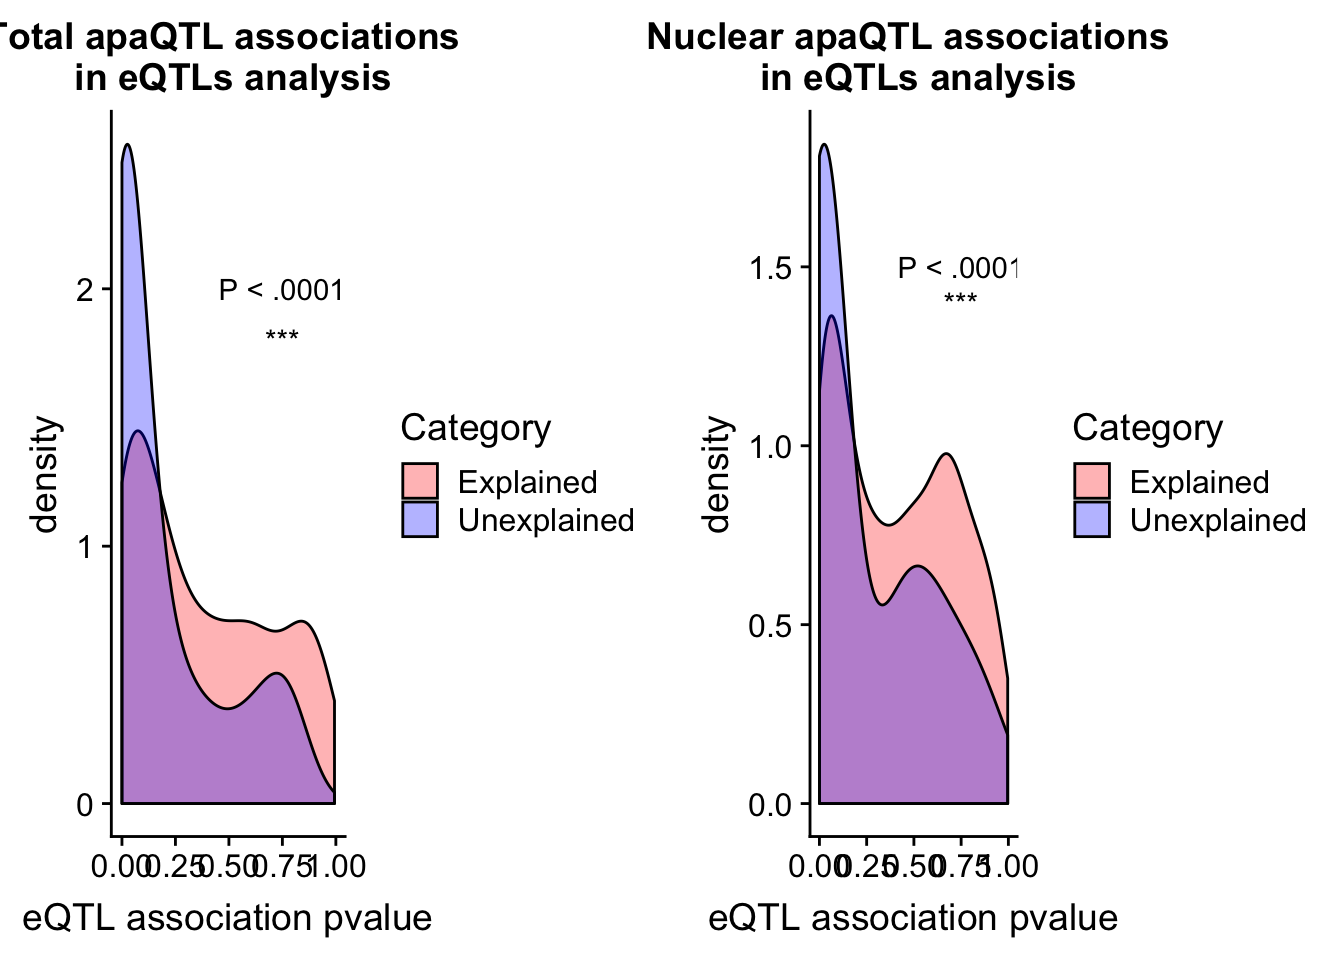
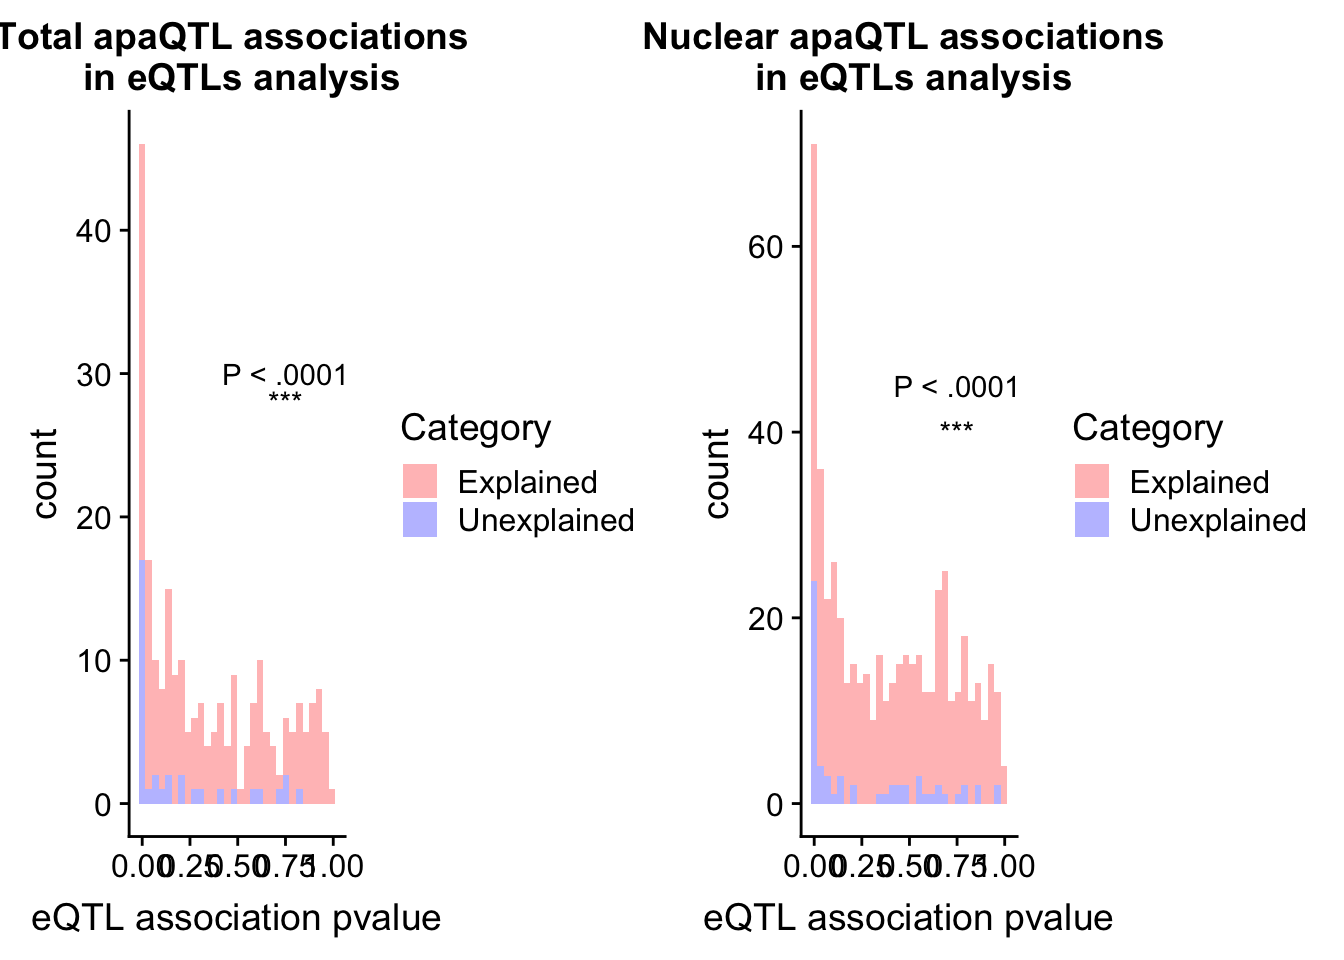
Build site.

diff --git a/docs/ProtandRNApvals.html b/docs/ProtandRNApvals.html
@@ -439,7 +439,7 @@ div.section {
 <div class="tab-content">
 <div id="summary" class="tab-pane fade in active">
 <p>
-<strong>Last updated:</strong> 2019-03-01
+<strong>Last updated:</strong> 2019-03-09
 </p>
 <p>
 <strong>Checks:</strong> <span class="glyphicon glyphicon-ok text-success" aria-hidden="true"></span> 6 <span class="glyphicon glyphicon-exclamation-sign text-danger" aria-hidden="true"></span> 0
@@ -518,10 +518,10 @@ This reproducible <a href="http://rmarkdown.rstudio.com">R Markdown</a> analysis
 <div class="panel panel-default">
 <div class="panel-heading">
 <p class="panel-title">
-<a data-toggle="collapse" data-parent="#workflowr-checks" href="#strongRepositoryversionstrongahrefhttpsgithubcombrimittlemanthreeprimeseqtree4fbbff754a18f2bea0783576e95d744b97137a76targetblank4fbbff7a"> <span class="glyphicon glyphicon-ok text-success" aria-hidden="true"></span> <strong>Repository version:</strong> <a href="https://github.com/brimittleman/threeprimeseq/tree/4fbbff754a18f2bea0783576e95d744b97137a76" target="_blank">4fbbff7</a> </a>
+<a data-toggle="collapse" data-parent="#workflowr-checks" href="#strongRepositoryversionstrongahrefhttpsgithubcombrimittlemanthreeprimeseqtree2e3d0f7797d1ece700d45a1db66d477525e4e589targetblank2e3d0f7a"> <span class="glyphicon glyphicon-ok text-success" aria-hidden="true"></span> <strong>Repository version:</strong> <a href="https://github.com/brimittleman/threeprimeseq/tree/2e3d0f7797d1ece700d45a1db66d477525e4e589" target="_blank">2e3d0f7</a> </a>
 </p>
 </div>
[2 lines of base64/hex data omitted]
 <div class="panel-body">
 <p>
 Great! You are using Git for version control. Tracking code development and connecting the code version to the results is critical for reproducibility. The version displayed above was the version of the Git repository at the time these results were generated. <br><br> Note that you need to be careful to ensure that all relevant files for the analysis have been committed to Git prior to generating the results (you can use <code>wflow_publish</code> or <code>wflow_git_commit</code>). workflowr only checks the R Markdown file, but you know if there are other scripts or data files that it depends on. Below is the status of the Git repository when the results were generated:
@@ -539,7 +539,9 @@ Untracked files:
     Untracked:  KalistoAbundance18486.txt
     Untracked:  analysis/4suDataIGV.Rmd
     Untracked:  analysis/DirectionapaQTL.Rmd
+    Untracked:  analysis/EmpDistforOverlaps.Rmd
     Untracked:  analysis/EvaleQTLs.Rmd
+    Untracked:  analysis/NuclearSpecQTL.Rmd
     Untracked:  analysis/YL_QTL_test.Rmd
     Untracked:  analysis/groSeqAnalysis.Rmd
     Untracked:  analysis/ncbiRefSeq_sm.sort.mRNA.bed
@@ -555,6 +557,7 @@ Untracked files:
     Untracked:  data/ApaQTLs_otherPhen/
     Untracked:  data/ChromHmmOverlap/
     Untracked:  data/DistTXN2Peak_genelocAnno/
+    Untracked:  data/FeatureoverlapPeaks/
     Untracked:  data/GM12878.chromHMM.bed
     Untracked:  data/GM12878.chromHMM.txt
     Untracked:  data/LianoglouLCL/
@@ -571,10 +574,12 @@ Untracked files:
     Untracked:  data/PeakUsage_noMP_GeneLocAnno/
     Untracked:  data/PeaksUsed/
     Untracked:  data/PeaksUsed_noMP_5percCov/
+    Untracked:  data/PolyA_DB/
     Untracked:  data/QTL_overlap/
     Untracked:  data/RNAkalisto/
     Untracked:  data/RefSeq_annotations/
     Untracked:  data/Replicates_usage/
+    Untracked:  data/Signal_Loc/
     Untracked:  data/TotalApaQTLs.txt
     Untracked:  data/Totalpeaks_filtered_clean.bed
     Untracked:  data/UnderstandPeaksQC/
@@ -664,6 +669,7 @@ Unstaged changes:
     Modified:   analysis/CompareLianoglouData.Rmd
     Modified:   analysis/NewPeakPostMP.Rmd
     Modified:   analysis/apaQTLoverlapGWAS.Rmd
+    Modified:   analysis/characterize_apaQTLs.Rmd
     Modified:   analysis/cleanupdtseq.internalpriming.Rmd
     Modified:   analysis/coloc_apaQTLs_protQTLs.Rmd
     Modified:   analysis/dif.iso.usage.leafcutter.Rmd
@@ -678,7 +684,6 @@ Unstaged changes:
     Modified:   analysis/overlap_qtls.Rmd
     Modified:   analysis/peakOverlap_oppstrand.Rmd
     Modified:   analysis/peakQCPPlots.Rmd
-    Modified:   analysis/peakQCplotsSTARprocessing.Rmd
     Modified:   analysis/pheno.leaf.comb.Rmd
     Modified:   analysis/pipeline_55Ind.Rmd
     Modified:   analysis/swarmPlots_QTLs.Rmd
@@ -725,6 +730,40 @@ Message
 </tr>
 </thead>
 <tbody>
+<tr>
+<td>
+Rmd
+</td>
+<td>
+<a href="https://github.com/brimittleman/threeprimeseq/blob/2e3d0f7797d1ece700d45a1db66d477525e4e589/analysis/ProtandRNApvals.Rmd" target="_blank">2e3d0f7</a>
+</td>
+<td>
+Briana Mittleman
+</td>
+<td>
+2019-03-09
+</td>
+<td>
+chnage density to histogram
+</td>
+</tr>
+<tr>
+<td>
+html
+</td>
+<td>
+<a href="https://rawcdn.githack.com/brimittleman/threeprimeseq/ce550cf07c6d543d9f51d32295cd264b23ab0616/docs/ProtandRNApvals.html" target="_blank">ce550cf</a>
+</td>
+<td>
+Briana Mittleman
+</td>
+<td>
+2019-03-01
+</td>
+<td>
+Build site.
+</td>
+</tr>
 <tr>
 <td>
 Rmd
@@ -926,22 +965,29 @@ code for nom pvals
 Run ?workflowr for help getting started</code></pre>
 <pre class="r"><code>library(reshape2)
 library(tidyverse)</code></pre>
-<pre><code>── Attaching packages ──────────────────────────────────────────────────────────────────────────── tidyverse 1.2.1 ──</code></pre>
-<pre><code>✔ ggplot2 3.0.0     ✔ purrr   0.2.5
-✔ tibble  1.4.2     ✔ dplyr   0.7.6
-✔ tidyr   0.8.1     ✔ stringr 1.4.0
-✔ readr   1.1.1     ✔ forcats 0.3.0</code></pre>
+<pre><code>── Attaching packages ───────────────────────────────────────────────────────────────────────────────────── tidyverse 1.2.1 ──</code></pre>
+<pre><code>✔ ggplot2 3.1.0       ✔ purrr   0.3.1  
+✔ tibble  2.0.1       ✔ dplyr   0.8.0.1
+✔ tidyr   0.8.3       ✔ stringr 1.4.0  
+✔ readr   1.3.1       ✔ forcats 0.4.0  </code></pre>
+<pre><code>Warning: package &#39;tibble&#39; was built under R version 3.5.2</code></pre>
+<pre><code>Warning: package &#39;tidyr&#39; was built under R version 3.5.2</code></pre>
+<pre><code>Warning: package &#39;purrr&#39; was built under R version 3.5.2</code></pre>
+<pre><code>Warning: package &#39;dplyr&#39; was built under R version 3.5.2</code></pre>
 <pre><code>Warning: package &#39;stringr&#39; was built under R version 3.5.2</code></pre>
-<pre><code>── Conflicts ─────────────────────────────────────────────────────────────────────────────── tidyverse_conflicts() ──
+<pre><code>Warning: package &#39;forcats&#39; was built under R version 3.5.2</code></pre>
+<pre><code>── Conflicts ──────────────────────────────────────────────────────────────────────────────────────── tidyverse_conflicts() ──
 ✖ dplyr::filter() masks stats::filter()
 ✖ dplyr::lag()    masks stats::lag()</code></pre>
 <pre class="r"><code>library(cowplot)</code></pre>
+<pre><code>Warning: package &#39;cowplot&#39; was built under R version 3.5.2</code></pre>
 <pre><code>
 Attaching package: &#39;cowplot&#39;</code></pre>
 <pre><code>The following object is masked from &#39;package:ggplot2&#39;:
 
     ggsave</code></pre>
 <pre class="r"><code>library(qvalue)</code></pre>
+<pre><code>Warning: package &#39;qvalue&#39; was built under R version 3.5.2</code></pre>
 <p>For a lot of this project I have been looking at the relationship between APA, RNA, and protein. I want to use trhis analysis to get the nominal pvalues for the associations of the snp:gene pairs found in the APA qtl analysis. This will help me find examples and look at the distributions overall.</p>
 <p>I want a file that has the nominal pvalues for each of the apaQTls in the total 3’, nuclear 3’, RNA, and protein. I will have to convert the gene names.</p>
 <p>Start with a dictionary of the QTLs. It will have the snp as the key and converted gene as the value. I can then write out the associations.</p>
@@ -1289,7 +1335,7 @@ TotRNAExPval=TotRNAEx%&gt;% select(RNA_P) %&gt;% mutate(Category=&quot;Explained
 #full data frame  
 AllRNAP_tot=as.data.frame(rbind(TotRNAUnPval,TotRNAExPval))
 
-totExvUn=ggplot(AllRNAP_tot, aes(by=Category, x=RNA_P, fill=Category))+ geom_density(alpha=.3) + scale_fill_manual(values=c(&quot;red&quot;, &quot;blue&quot;)) + labs(x=&quot;eQTL association pvalue&quot;, title=&quot;Total apaQTL associations \n in eQTLs analysis&quot;) + annotate(&quot;text&quot;, label=&quot;P &lt; .0001&quot;, x=.75, y=2) + annotate(&quot;text&quot;, label=&quot;***&quot;, x=.75, y=1.8)</code></pre>
+totExvUn=ggplot(AllRNAP_tot, aes(by=Category, x=RNA_P, fill=Category))+ geom_histogram(alpha=.3) + scale_fill_manual(values=c(&quot;red&quot;, &quot;blue&quot;)) + labs(x=&quot;eQTL association pvalue&quot;, title=&quot;Total apaQTL associations \n in eQTLs analysis&quot;) + annotate(&quot;text&quot;, label=&quot;P &lt; .0001&quot;, x=.75, y=30) + annotate(&quot;text&quot;, label=&quot;***&quot;, x=.75, y=28)</code></pre>
 <p>Nuclear:</p>
 <pre class="r"><code>NucRNAun=NucRNA %&gt;% semi_join(unexpGene,by=&quot;GeneName&quot;)
 NucRNAUnPval=NucRNAun %&gt;% select(RNA_P) %&gt;% mutate(Category=&quot;Unexplained&quot;)
@@ -1298,11 +1344,11 @@ NucRNAExPval=NucRNAEx%&gt;% select(RNA_P) %&gt;% mutate(Category=&quot;Explained
 
 AllRNAP_nuc=as.data.frame(rbind(NucRNAUnPval,NucRNAExPval))
 
-nucExvUn=ggplot(AllRNAP_nuc, aes(by=Category, x=RNA_P, fill=Category))+ geom_density(alpha=.3) + scale_fill_manual(values=c(&quot;red&quot;, &quot;blue&quot;)) + labs(x=&quot;eQTL association pvalue&quot;, title=&quot;Nuclear apaQTL associations \n in eQTLs analysis&quot;) +annotate(&quot;text&quot;, label=&quot;P &lt; .0001&quot;, x=.75, y=1.5)+ annotate(&quot;text&quot;, label=&quot;***&quot;, x=.75, y=1.4)</code></pre>
-<pre class="r"><code>bothExOver=plot_grid(totExvUn,nucExvUn)
-
-
-bothExOver</code></pre>
+nucExvUn=ggplot(AllRNAP_nuc, aes(by=Category, x=RNA_P, fill=Category))+ geom_histogram(alpha=.3) + scale_fill_manual(values=c(&quot;red&quot;, &quot;blue&quot;)) + labs(x=&quot;eQTL association pvalue&quot;, title=&quot;Nuclear apaQTL associations \n in eQTLs analysis&quot;) +annotate(&quot;text&quot;, label=&quot;P &lt; .0001&quot;, x=.75, y=45)+ annotate(&quot;text&quot;, label=&quot;***&quot;, x=.75, y=40)</code></pre>
+<pre class="r"><code>bothExOver=plot_grid(totExvUn,nucExvUn)</code></pre>
+<pre><code>`stat_bin()` using `bins = 30`. Pick better value with `binwidth`.
+`stat_bin()` using `bins = 30`. Pick better value with `binwidth`.</code></pre>
+<pre class="r"><code>bothExOver</code></pre>
 <p><img src="figure/ProtandRNApvals.Rmd/unnamed-chunk-19-1.png" width="672" style="display: block; margin: auto;" /></p>
 <p>
 <button type="button" class="btn btn-default btn-xs btn-workflowr btn-workflowr-fig" data-toggle="collapse" data-target="#fig-unnamed-chunk-19-1">
@@ -1429,25 +1475,25 @@ attached base packages:
 [1] stats     graphics  grDevices utils     datasets  methods   base     
 
 other attached packages:
- [1] bindrcpp_0.2.2  qvalue_2.12.0   cowplot_0.9.3   forcats_0.3.0  
- [5] stringr_1.4.0   dplyr_0.7.6     purrr_0.2.5     readr_1.1.1    
- [9] tidyr_0.8.1     tibble_1.4.2    ggplot2_3.0.0   tidyverse_1.2.1
-[13] reshape2_1.4.3  workflowr_1.2.0
+ [1] qvalue_2.14.1   cowplot_0.9.4   forcats_0.4.0   stringr_1.4.0  
+ [5] dplyr_0.8.0.1   purrr_0.3.1     readr_1.3.1     tidyr_0.8.3    
+ [9] tibble_2.0.1    ggplot2_3.1.0   tidyverse_1.2.1 reshape2_1.4.3 
+[13] workflowr_1.2.0
 
 loaded via a namespace (and not attached):
- [1] tidyselect_0.2.4 splines_3.5.1    haven_1.1.2      lattice_0.20-35 
- [5] colorspace_1.3-2 htmltools_0.3.6  yaml_2.2.0       rlang_0.2.2     
- [9] pillar_1.3.0     glue_1.3.0       withr_2.1.2      modelr_0.1.2    
-[13] readxl_1.1.0     bindr_0.1.1      plyr_1.8.4       munsell_0.5.0   
-[17] gtable_0.2.0     cellranger_1.1.0 rvest_0.3.2      evaluate_0.13   
-[21] labeling_0.3     knitr_1.20       broom_0.5.0      Rcpp_0.12.19    
-[25] scales_1.0.0     backports_1.1.2  jsonlite_1.6     fs_1.2.6        
-[29] hms_0.4.2        digest_0.6.17    stringi_1.2.4    grid_3.5.1      
-[33] rprojroot_1.3-2  cli_1.0.1        tools_3.5.1      magrittr_1.5    
-[37] lazyeval_0.2.1   crayon_1.3.4     whisker_0.3-2    pkgconfig_2.0.2 
-[41] xml2_1.2.0       lubridate_1.7.4  assertthat_0.2.0 rmarkdown_1.11  
-[45] httr_1.3.1       rstudioapi_0.9.0 R6_2.3.0         nlme_3.1-137    
-[49] git2r_0.24.0     compiler_3.5.1  </code></pre>
+ [1] tidyselect_0.2.5 xfun_0.5         splines_3.5.1    haven_2.1.0     
+ [5] lattice_0.20-38  colorspace_1.4-0 generics_0.0.2   htmltools_0.3.6 
+ [9] yaml_2.2.0       rlang_0.3.1      pillar_1.3.1     glue_1.3.0      
+[13] withr_2.1.2      modelr_0.1.4     readxl_1.3.0     plyr_1.8.4      
+[17] munsell_0.5.0    gtable_0.2.0     cellranger_1.1.0 rvest_0.3.2     
+[21] evaluate_0.13    labeling_0.3     knitr_1.21       broom_0.5.1     
+[25] Rcpp_1.0.0       scales_1.0.0     backports_1.1.3  jsonlite_1.6    
+[29] fs_1.2.6         hms_0.4.2        digest_0.6.18    stringi_1.3.1   
+[33] grid_3.5.1       rprojroot_1.3-2  cli_1.0.1        tools_3.5.1     
+[37] magrittr_1.5     lazyeval_0.2.1   crayon_1.3.4     whisker_0.3-2   
+[41] pkgconfig_2.0.2  xml2_1.2.0       lubridate_1.7.4  assertthat_0.2.0
+[45] rmarkdown_1.11   httr_1.4.0       rstudioapi_0.9.0 R6_2.4.0        
+[49] nlme_3.1-137     git2r_0.24.0     compiler_3.5.1  </code></pre>
 </div>
 </div>
 
